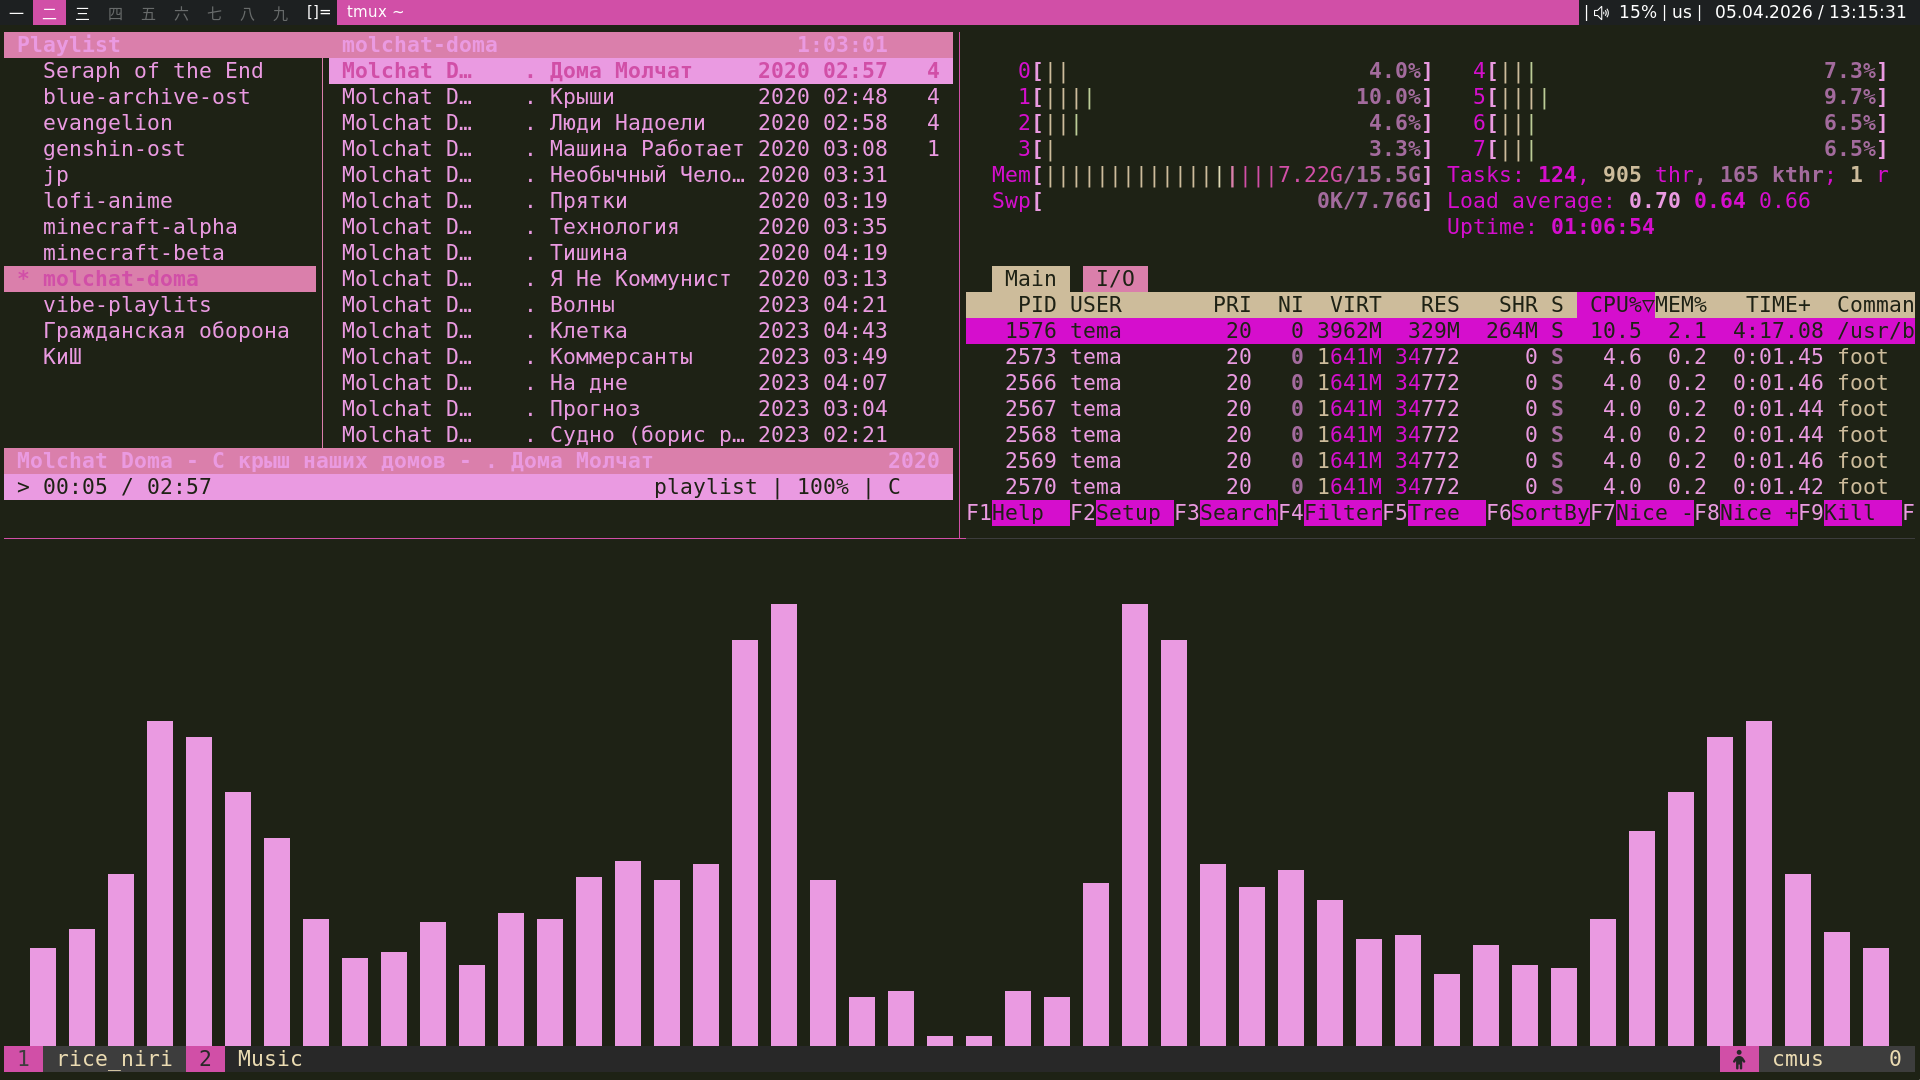
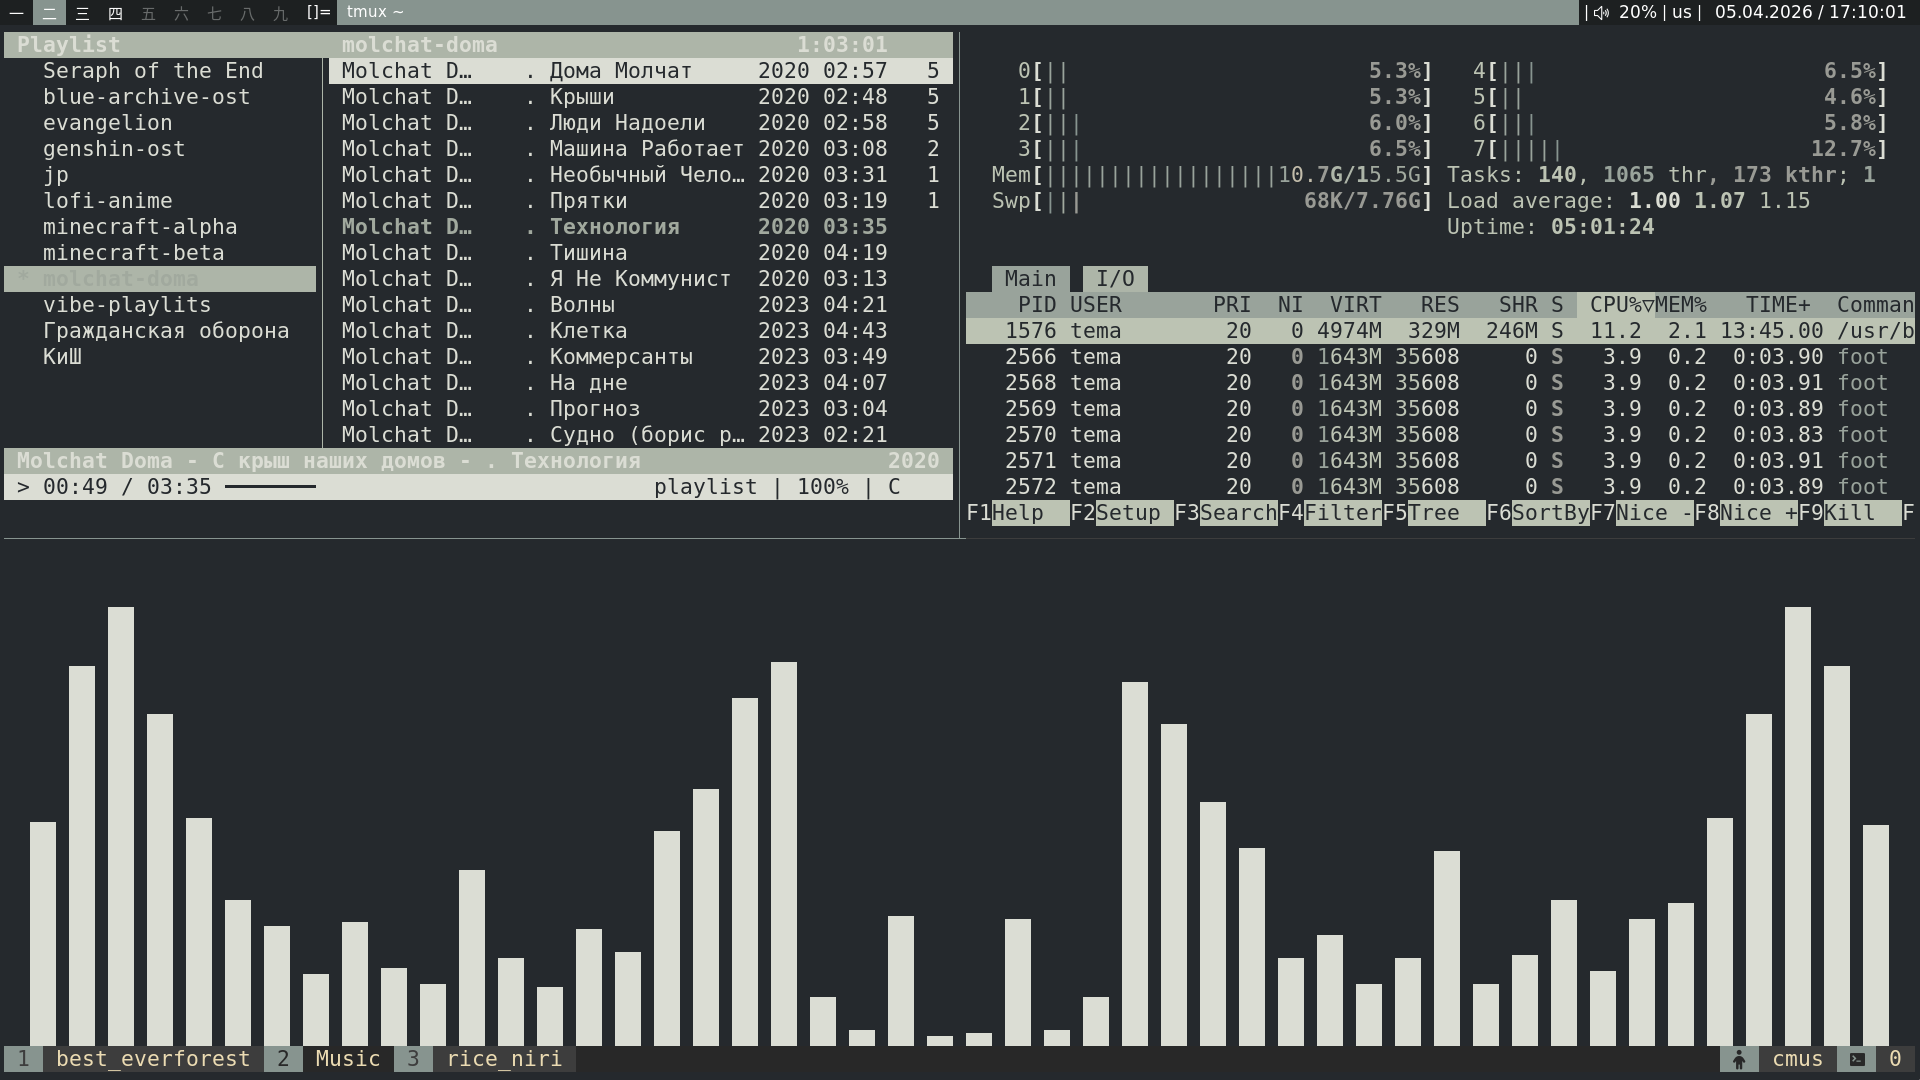
update: rice && wal && screenshots

diff --git a/waybar/.config/waybar/colors.css b/waybar/.config/waybar/colors.css
@@ -3,5 +3,5 @@
 @define-color background #1d2021;
 
 @define-color color0 #1d2021;
-@define-color color1 #D14FA7;
+@define-color color1 #87948F;
 
